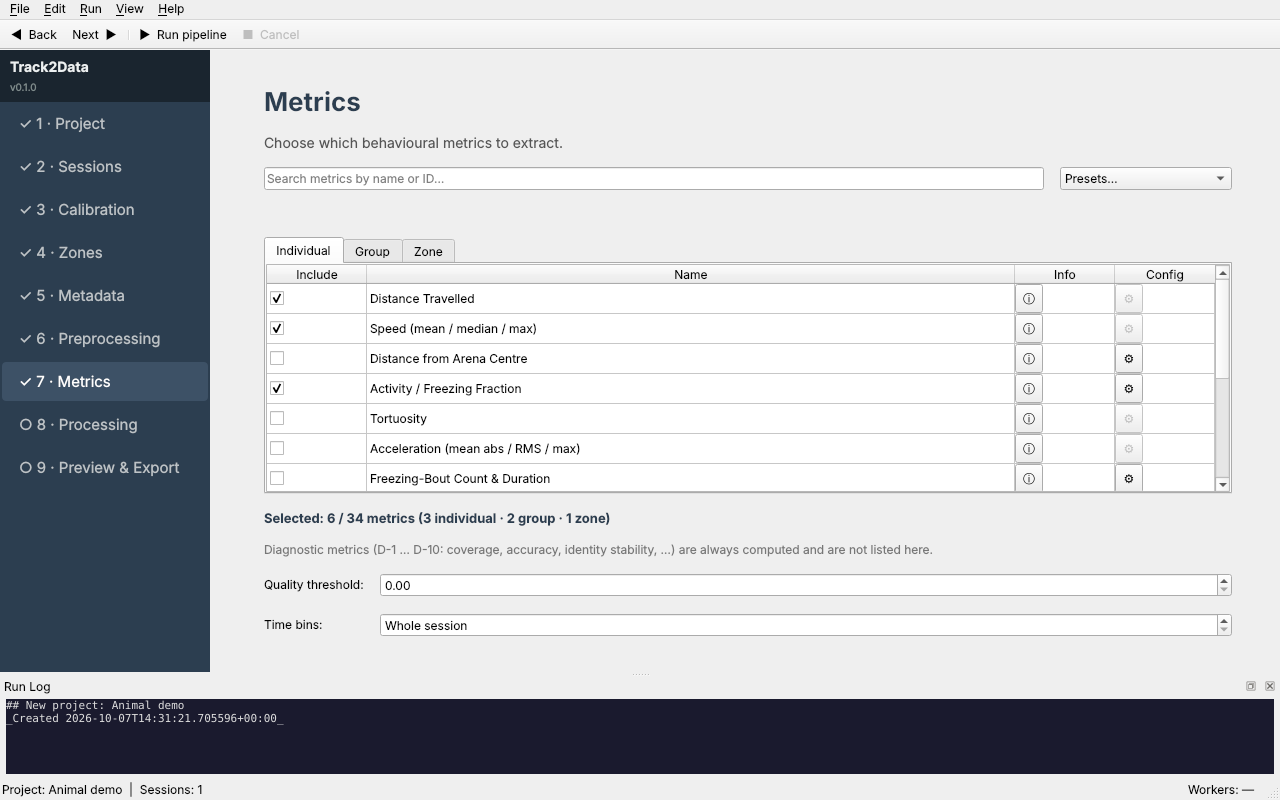
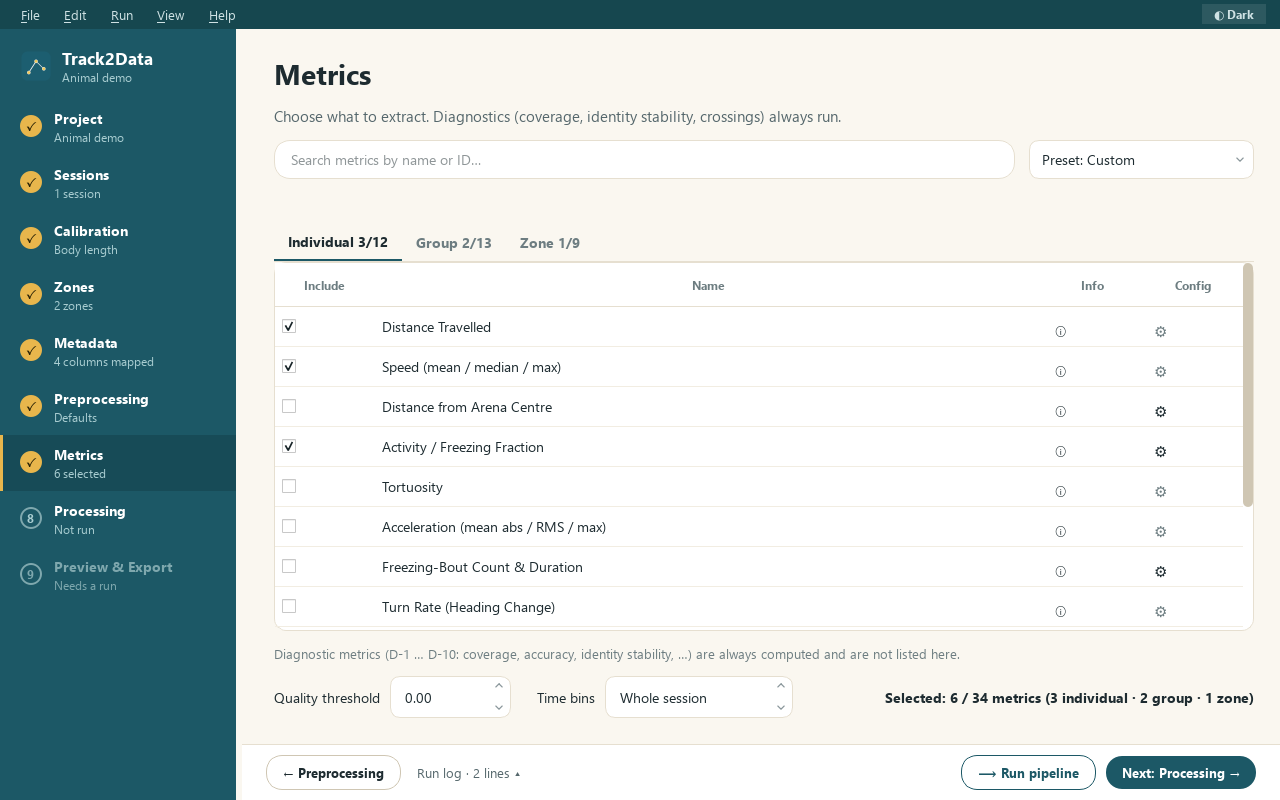
docs: regenerate guide screenshots, update shell docs and changelog

diff --git a/docs/guide/USER_GUIDE.md b/docs/guide/USER_GUIDE.md
@@ -57,7 +57,7 @@ The left sidebar lists the stages. A badge shows where each one stands:
 | ○ | nothing entered yet (optional stages stay ○) |
 
 **Settings save themselves.** There are no Apply buttons: a change is stored a moment after you
-make it, and again when you leave the screen. **Next ▶** stays disabled, with a tooltip saying why,
+make it, and again when you leave the screen. **Next** (bottom right) stays disabled, with a tooltip saying why,
 until Project, Sessions and Metrics are filled in and the calibration is valid.
 
 | # | Screen | What you do |
@@ -168,7 +168,7 @@ sidebar shows ⚠ while any session is identity-free.
 
 - Folders are only read, never modified.
 - Adding the same folder twice is ignored.
-- The status bar (bottom left) shows the session count.
+- The sidebar shows the session count under **Sessions**, and the chips above the table split them into ready and identity-free.
 - Supported: idtracker.ai 6.x output (the legacy v5 layout is also read). v4 is not supported yet (Track2Data tells you so if it recognises a v4 folder; see
   [sending a v4 sample](../IDTRACKERAI_V4_SAMPLES.md)).
 
@@ -355,7 +355,7 @@ Every metric is documented in [`docs/METRICS_SPEC.md`](../METRICS_SPEC.md).
 ## 8. Processing
 
 **Validate pipeline** checks the project and lists anything that would stop a run. **Run pipeline**
-(or the toolbar button, or Ctrl+R) processes every session: import, preprocessing, calibration,
+(or the button in the footer bar, or Ctrl+R) processes every session: import, preprocessing, calibration,
 zone assignment, metrics, export.
 
 <figure>
@@ -503,7 +503,7 @@ Definitions, formulas and references for every metric: [`docs/METRICS_SPEC.md`](
 
 | You see | Why | What to do |
 |---|---|---|
-| **Next ▶** is disabled | A required stage is empty or invalid | Hover over Next: the tooltip names the problem. Check the ✗ / ○ badges in the sidebar |
+| **Next** is disabled | A required stage is empty or invalid | Hover over Next: the tooltip names the problem. Check the ✗ / ○ badges in the sidebar |
 | *"No reader recognised the session folder"* | The folder is not an idtracker.ai output | Pick the session folder itself (the one containing `trajectories/`). Supported: idtracker.ai 6.x output (the legacy v5 layout also works); v4 is not supported yet (a v4-looking folder gets a specific message; see [sending a v4 sample](../IDTRACKERAI_V4_SAMPLES.md)) |
 | Video column says *Not found* | The video path idtracker.ai recorded does not exist on this computer | Select the session and press **Locate Video…** (Sessions). Metrics do not need the video |
 | *READER_NOT_AVAILABLE* | A project session was added with software this version of Track2Data does not have | Install a version that has that reader. Track2Data will not read it with a different one, since that could change the numbers |

diff --git a/docs/dev/UI_DESIGN.md b/docs/dev/UI_DESIGN.md
@@ -56,17 +56,24 @@ QMainWindow
 │   ├── File: New… / Open… / Save / Duplicate as template / Recent ▸ / Quit
 │   ├── Edit: Undo / Redo / Preferences
 │   ├── Run: Validate / Run pipeline / Export…
-│   ├── View: Toggle Run Log / Toggle Diagnostics / Theme ▸
+│   ├── View: Run log / Command palette / Theme ▸ (Light, Dark)
 │   └── Help: About / Open docs / Report issue
-├── QToolBar (back / forward / run / export / cancel)
-├── Central: QStackedWidget (one page per wizard stage)
-├── LeftDock: WizardSidebar (stage list, completion ticks)
-├── BottomDock: RunLogDock
-└── StatusBar (current project, worker count, cache hit rate)
+│   (a theme pill sits at the right end of the menu bar)
+├── Central: page QStackedWidget (one page per wizard stage)
+│   ├── RunLogDock: collapsible 150 px drawer, `HH:MM:SS  message` lines
+│   └── FooterBar: Back · Run log · Run pipeline · Next (Export dataset on Preview)
+├── LeftDock: WizardSidebar (painted rows: numbered dot, stage name, live summary)
+└── Toasts: a dark pill near the bottom for info messages (status bar hidden)
 ```
 
-**Command palette** (Ctrl/Cmd-K, PRD §14): a `QDialog` over the main
-window with fuzzy-matched actions wired through `QAction`.
+The toolbar is gone; Back / Next / Run / Cancel remain `QAction`s that the menu and the footer
+buttons share. Preview & Export stays locked in the sidebar until a run has produced results.
+Colours and type come from `app/resources/track2data-{light,dark}.qss` (tokens in the Teal Field
+design handoff); `app/theme.py` loads them and remembers the choice in `QSettings`.
+
+**Command palette** (Ctrl/Cmd-K, PRD §14): `ui/dialogs/command_palette.py`, a `QDialog` over the
+main window listing stage jumps, run, validate, export, run log, theme and file actions. Each entry
+runs what the menus run; entries that do not apply (no project, no run yet) are hidden.
 
 ---
 
@@ -862,8 +869,11 @@ stages green.
 
 ## 9. Theming & accessibility (NFR-7)
 
-- Two themes (light + dark) via Qt stylesheets; system-preference
-  detection on startup.
+- Two themes (light + dark) via Qt stylesheets (`app/resources/*.qss`); system-preference
+  detection on startup, remembered in `QSettings`, switchable from View ▸ Theme or the menu-bar pill.
+  Screens set `objectName` / dynamic properties (`role`, `chip`, `banner`, `card`) and never hard-code colours.
+- Fonts: Atkinson Hyperlegible and IBM Plex Mono are loaded from `app/resources/fonts/` when present;
+  the stylesheets fall back to system fonts otherwise.
 - All controls keyboard-navigable (`Tab` order curated per page).
 - Screen-reader labels via `setAccessibleName` / `setAccessibleDescription`.
 - Contrast palette validated against WCAG AA at design time.

diff --git a/CHANGELOG.md b/CHANGELOG.md
@@ -9,6 +9,14 @@ and this project adheres to [Semantic Versioning](https://semver.org/).
 
 ### Added
 
+- **Teal Field interface refresh.** Light and dark themes (system default, remembered), a
+  painted stage sidebar with live summaries, a footer bar in place of the toolbar, a run-log
+  drawer, toasts, and a restyle of all nine screens. New with it: a command palette (Ctrl+K), a
+  Sessions detail pane and tracked-coverage column, Calibration mode cards, a Processing setup
+  check with a segmented workers control, a Preview quality grid (traffic-light cells and a plain
+  "why this needs a look" card per session), editable saved zones (drag the white handles, delete),
+  a metrics preset pill with per-tab counts, and an export receipt dialog. Atkinson Hyperlegible
+  and IBM Plex Mono load from `app/resources/fonts/` when present.
 - **Ctrax raw `.mat` input** ("Save Tracks as Matlab File"). One session per file; the frame
   rate comes from the file's timestamps (an average over the whole span) and the frame size is
   asked for, because Ctrax measures y from the bottom and the height is needed to put it back in
